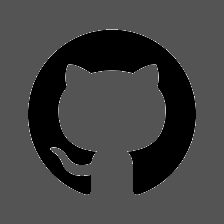
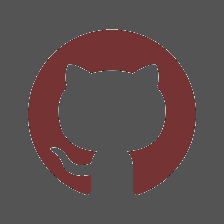
on essaye de gerer les couleurs

Changed region(s): [[0.125, 0.125, 0.875, 0.875]]

diff --git a/dist/index.html b/dist/index.html
@@ -23,7 +23,7 @@
         ">
             <img style="
           height: 100%;
-        " src="/greygit.fd04a594.png" class="cursor-pointer mx-2 img_rgb_effect">
+        " src="/qesf.370ac40c.png" class="cursor-pointer mx-2 img_rgb_effect">
         </a>
         <a href="https://github.com/amapic" style="
           height: 10vh;
@@ -35,40 +35,41 @@
         ">
             <img style="
           height: 100%;
-        " src="/qesf.370ac40c.png" class="cursor-pointer mx-2 img_rgb_effect">
+        " src="/dgqdg.507781d2.png" class="cursor-pointer mx-2 img_rgb_effect">
         </a>
 
         <div class="scrollable">
             <div class="container">
                 <div class="image-container">
+                    
                     <a href="/index.html">
                         <h1 class="img_un">Site web utilisant three.js</h1>
                     </a>
                     <img class="img_rgb_effect" src="/ttt.0ae0da50.jpeg" alt="">
                 </div>
-                <!-- <div class="image-container">
+                <div class="image-container">
                     <a href="/index.html">
                         <h1 class="img_deux">Front page d'AGAP2.fr</h1>
                     </a>
-                    <img class="img_rgb_effect" src="./images/2_nb.jpeg" alt="">
+                    <img class="img_rgb_effect" src="/2_nb.98964245.jpeg" alt="">
 
-                </div> -->
-                <!-- <div class="image-container">
+                </div>
+                <div class="image-container">
                     <a href="/index.html">
                         <h1 class="img_trois">Site web standard</h1>
                     </a>
-                    <img class="img_rgb_effect" src="./images/3_nb.jpeg" alt="">
-                </div> -->
-                <!-- <div class="image-container">
+                    <img class="img_rgb_effect" src="/3_nb.52df9fce.jpeg" alt="">
+                </div>
+                <div class="image-container">
                     <h1>ROSE</h1>
-                    <img class="img_rgb_effect" src="./images/4.jpeg" alt="">
-                </div> -->
+                    <img class="img_rgb_effect" src="/4.fa99568e.jpeg" alt="">
+                </div>
 
             </div>
         </div>
     </main>
 
-    <script src="/app.c3f9f951.js"></script>
+    <script type="module" src="/app.c3f9f951.js"></script>
 
 </body>
 

diff --git a/index.html b/index.html
@@ -23,7 +23,7 @@
         ">
             <img style="
           height: 100%;
-        " src="./images/greygit.png" class="cursor-pointer mx-2 img_rgb_effect" />
+        " src="./images/qesf.png" class="cursor-pointer mx-2 img_rgb_effect" />
         </a>
         <a href="https://github.com/amapic" style="
           height: 10vh;
@@ -35,40 +35,41 @@
         ">
             <img style="
           height: 100%;
-        " src="./images/qesf.png" class="cursor-pointer mx-2 img_rgb_effect" />
+        " src="./images/dgqdg.png" class="cursor-pointer mx-2 img_rgb_effect" />
         </a>
 
         <div class="scrollable">
             <div class="container">
                 <div class="image-container">
+                    
                     <a href="/index.html">
                         <h1 class="img_un">Site web utilisant three.js</h1>
                     </a>
                     <img class="img_rgb_effect" src="./images/ttt.jpeg" alt="">
                 </div>
-                <!-- <div class="image-container">
+                <div class="image-container">
                     <a href="/index.html">
                         <h1 class="img_deux">Front page d'AGAP2.fr</h1>
                     </a>
                     <img class="img_rgb_effect" src="./images/2_nb.jpeg" alt="">
 
-                </div> -->
-                <!-- <div class="image-container">
+                </div>
+                <div class="image-container">
                     <a href="/index.html">
                         <h1 class="img_trois">Site web standard</h1>
                     </a>
                     <img class="img_rgb_effect" src="./images/3_nb.jpeg" alt="">
-                </div> -->
-                <!-- <div class="image-container">
+                </div>
+                <div class="image-container">
                     <h1>ROSE</h1>
                     <img class="img_rgb_effect" src="./images/4.jpeg" alt="">
-                </div> -->
+                </div>
 
             </div>
         </div>
     </main>
 
-    <script src="./js/app.js"></script>
+    <script type="module" src="./js/app.js"></script>
 
 </body>
 

diff --git a/dist/style.e308ff8e.js b/dist/style.e308ff8e.js
@@ -172,7 +172,7 @@ module.exports = reloadCSS;
 var reloadCSS = require('_css_loader');
 module.hot.dispose(reloadCSS);
 module.hot.accept(reloadCSS);
-},{"/project/rgb-split-distortion-scroll-effect/Harmond-ExtraBoldExpanded.otf":[["Harmond-ExtraBoldExpanded.7e9ab91e.otf","Harmond-ExtraBoldExpanded.otf"],"Harmond-ExtraBoldExpanded.otf"],"_css_loader":"node_modules/parcel-bundler/src/builtins/css-loader.js"}],"node_modules/parcel-bundler/src/builtins/hmr-runtime.js":[function(require,module,exports) {
+},{"/project/home/amapic/workspace/Harmond-ExtraBoldExpanded.otf":[["Harmond-ExtraBoldExpanded.7e9ab91e.otf","Harmond-ExtraBoldExpanded.otf"],"Harmond-ExtraBoldExpanded.otf"],"_css_loader":"node_modules/parcel-bundler/src/builtins/css-loader.js"}],"node_modules/parcel-bundler/src/builtins/hmr-runtime.js":[function(require,module,exports) {
 var global = arguments[3];
 var OVERLAY_ID = '__parcel__error__overlay__';
 var OldModule = module.bundle.Module;
@@ -197,7 +197,7 @@ var parent = module.bundle.parent;
 if ((!parent || !parent.isParcelRequire) && typeof WebSocket !== 'undefined') {
   var hostname = "" || location.hostname;
   var protocol = location.protocol === 'https:' ? 'wss' : 'ws';
-  var ws = new WebSocket(protocol + '://' + hostname + ':' + "38469" + '/');
+  var ws = new WebSocket(protocol + '://' + hostname + ':' + "34381" + '/');
   ws.onmessage = function (event) {
     checkedAssets = {};
     assetsToAccept = [];

diff --git a/dist/app.c3f9f951.js b/dist/app.c3f9f951.js
@@ -36549,7 +36549,7 @@ var parent = module.bundle.parent;
 if ((!parent || !parent.isParcelRequire) && typeof WebSocket !== 'undefined') {
   var hostname = "" || location.hostname;
   var protocol = location.protocol === 'https:' ? 'wss' : 'ws';
-  var ws = new WebSocket(protocol + '://' + hostname + ':' + "38469" + '/');
+  var ws = new WebSocket(protocol + '://' + hostname + ':' + "34381" + '/');
   ws.onmessage = function (event) {
     checkedAssets = {};
     assetsToAccept = [];

diff --git a/dist/index.js b/dist/index.js
@@ -193,7 +193,7 @@ var parent = module.bundle.parent;
 if ((!parent || !parent.isParcelRequire) && typeof WebSocket !== 'undefined') {
   var hostname = "" || location.hostname;
   var protocol = location.protocol === 'https:' ? 'wss' : 'ws';
-  var ws = new WebSocket(protocol + '://' + hostname + ':' + "34191" + '/');
+  var ws = new WebSocket(protocol + '://' + hostname + ':' + "34381" + '/');
   ws.onmessage = function (event) {
     checkedAssets = {};
     assetsToAccept = [];

diff --git a/dist/style.e308ff8e.css b/dist/style.e308ff8e.css
@@ -46,7 +46,7 @@ h1 {
   position: absolute;
   z-index: 10;
   color: #00f;
-  mix-blend-mode: difference;
+  mix-blend-mode:color-burn;
 }
 
 .img_un{
@@ -78,6 +78,7 @@ h1 {
 
 .scrollable img {
   max-width: 70vw;
+  max-height: 80vh;
   min-height: 40vh;
   object-fit: cover;
   object-position: 0 0;

diff --git a/style.css b/style.css
@@ -46,7 +46,7 @@ h1 {
   position: absolute;
   z-index: 10;
   color: #00f;
-  mix-blend-mode: difference;
+  mix-blend-mode:color-burn;
 }
 
 .img_un{
@@ -78,6 +78,7 @@ h1 {
 
 .scrollable img {
   max-width: 70vw;
+  max-height: 80vh;
   min-height: 40vh;
   object-fit: cover;
   object-position: 0 0;
